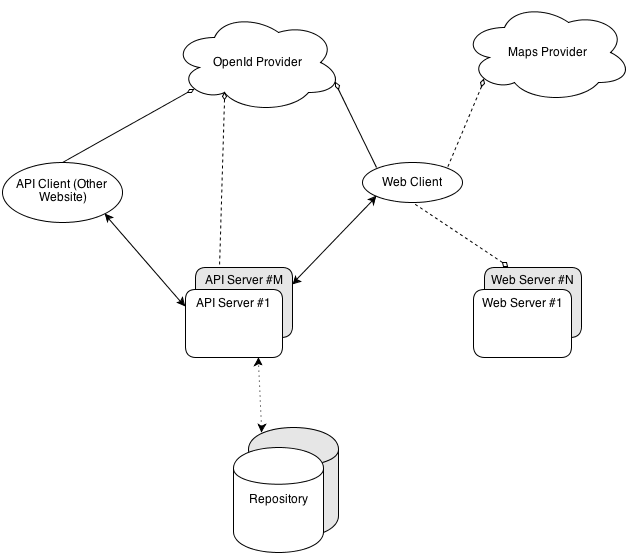
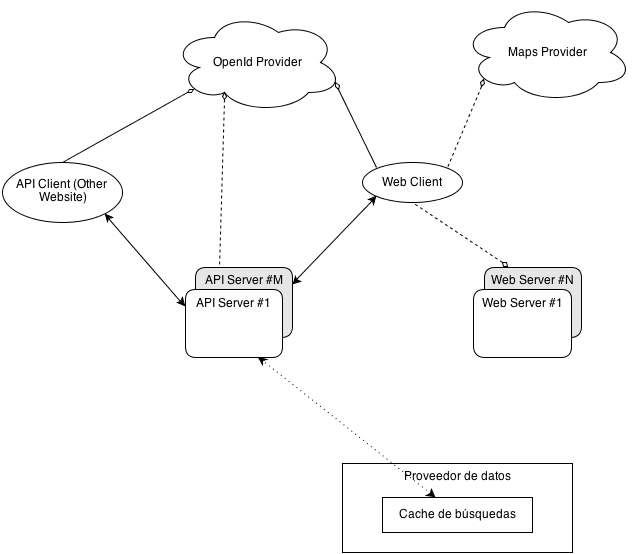
Modificaicon de arquitectura, falta los detalles en el informe

diff --git a/tp2_rup_arquitectura/informe/arquitectura.tex b/tp2_rup_arquitectura/informe/arquitectura.tex
@@ -59,6 +59,9 @@ El componente servidor de Administraci\'on provee tanto la UI como el contenido 
 Por \'ultimo, el repositorio es utilizado para persistir toda la informaci\'on de configuraci\'on, para ser utilizada por el resto de los sistemas.
 
 
+\subsubsection*{Proveedor de datos}
+
+\includegraphics[scale=0.5]{backend}
 
 
 \subsection*{Diagrama de Alocaci\'on}
